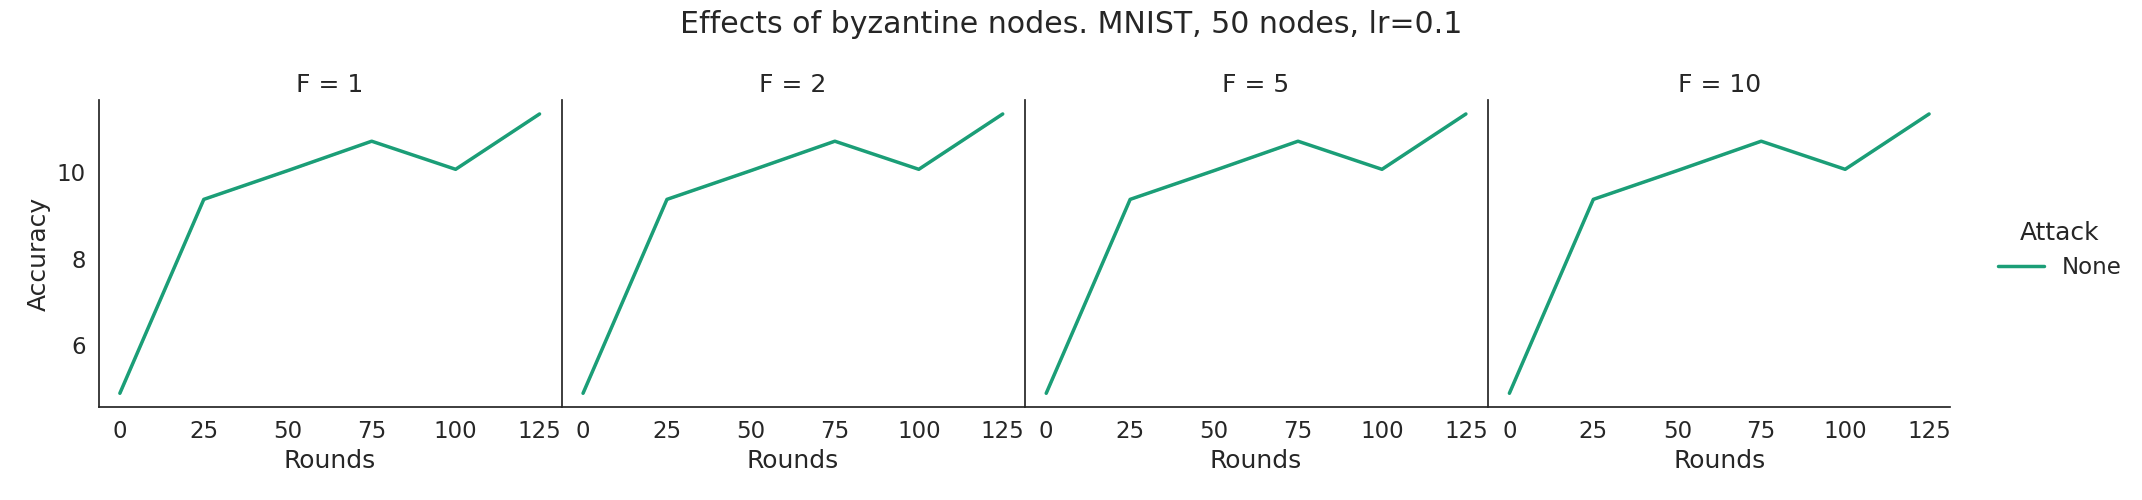
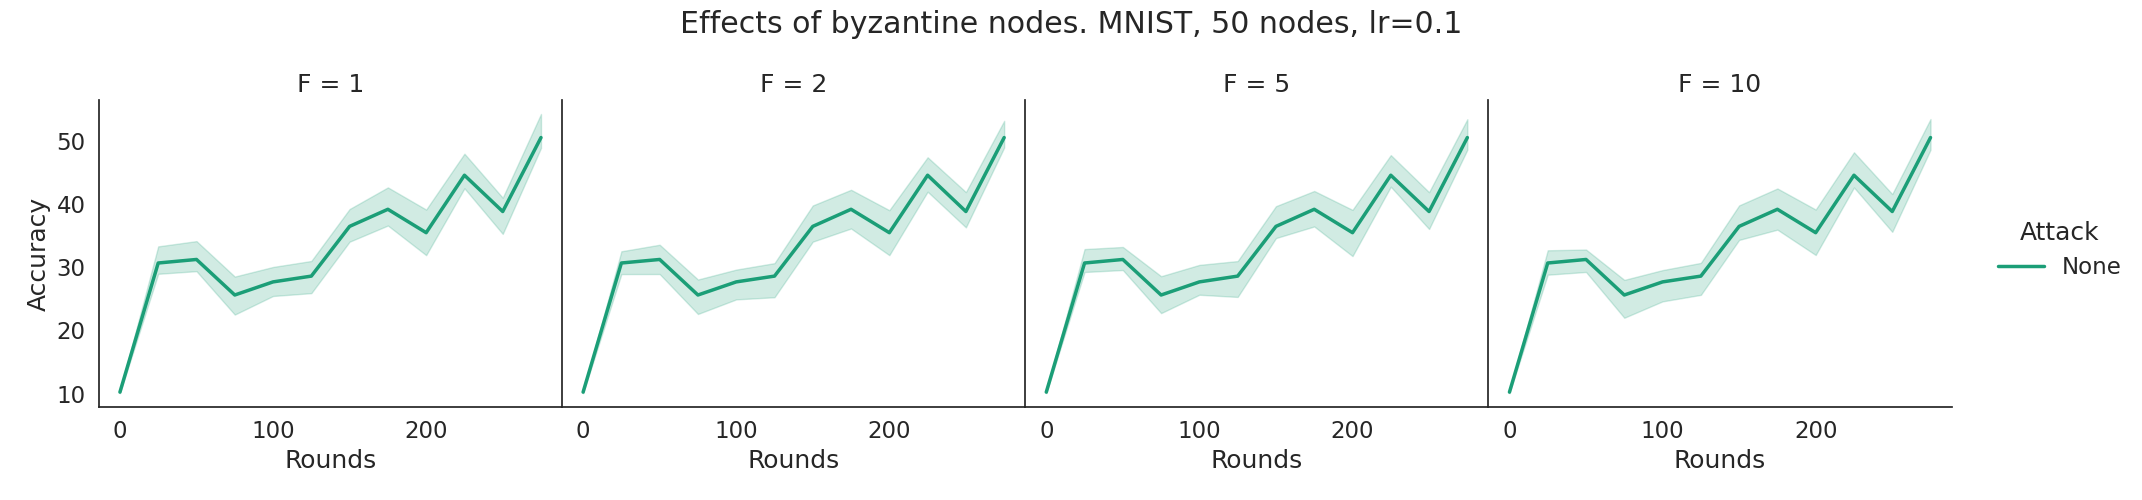
Update not working telerig

diff --git a/asyncfl/telerig.py b/asyncfl/telerig.py
@@ -13,13 +13,13 @@ from asyncfl.util import compute_convergance, compute_lipschitz_simple
 
 class Telerig(Kardam):
 
-    def __init__(self, n, f, dataset: str, model_name: str, learning_rate: float, damp_alpha: float = 0.2) -> None:
+    def __init__(self, n, f, dataset: str, model_name: str, learning_rate: float, damp_alpha: float = 0.2, eps: float = 2.5) -> None:
         super().__init__(n, f, dataset, model_name, learning_rate, damp_alpha)
         self.conv = True
         self.rep = True
-        self.eps = 2.5
+        self.eps = eps
         self.accepted_lips = []
-        self.min_samples = 2
+        self.min_samples = 3
         self.worker_history = {i:{"reputation":math.exp(0)/(1+math.exp(0))} for i in range(n)}
 
     
@@ -29,7 +29,8 @@ class Telerig(Kardam):
         """
         
         # self.lips[_client_id] = client_lipschitz.numpy()
-        model_staleness = (self.get_age() + 1) - gradient_age
+        # model_staleness = (self.get_age() + 1) - gradient_age
+        model_staleness = gradient_age
         grads = torch.from_numpy(gradients)
         self.grad_history[self.age] = grads.clone()
         grads_dampened = grads * dampening_factor(model_staleness, self.damp_alpha)
@@ -42,7 +43,7 @@ class Telerig(Kardam):
 
         # compute global score, condition for when the convergence is infinity. Can occur during optimal slowdown
         if math.isinf(global_conv):
-            global_score = 0
+            global_score = torch.zeros_like(global_conv)
         else:
             global_score = (self.k_pt*global_conv)
         
@@ -52,7 +53,7 @@ class Telerig(Kardam):
 
 
         # @TODO: Do lipschitz reputation check
-        self.update_lip(_client_id, client_lipschitz, self.conv)
+        self.update_lip(_client_id, client_lipschitz, global_conv)
         if self.lipschitz_reputation_check(global_score, self.accepted_lips, _client_id , self.get_age()):
         # if self.lipschitz_check(self.k_pt, self.hack):
             # call the apply gradients from the extended ps after gradient has been checked
@@ -63,13 +64,16 @@ class Telerig(Kardam):
                 alpha = dampening_factor(model_staleness, self.damp_alpha)
                 for g in self.optimizer.param_groups:
                     g['lr'] = alpha
+                # logging.debug(f'Aggregating grads from {_client_id} with lr {alpha}, eps: {self.eps}, damp_alpha:{self.damp_alpha}')
                 self.aggregate(grads)
                 return flatten(self.network)
             else:
+                logging.debug(f'[1] Rejecting grads from {_client_id}')
                 self.bft_telemetry["rejected"][_client_id]["values"].append([self.k_pt,self.get_age()])
                 self.bft_telemetry["rejected"][_client_id]["total"] += 1
                 return flatten(self.network)
         else:
+            logging.debug(f'[2] Rejecting grads from {_client_id}')
             self.bft_telemetry["rejected"][_client_id]["values"].append([self.k_pt,self.get_age()])
             self.bft_telemetry["rejected"][_client_id]["total"] += 1
             return flatten(self.network)
@@ -83,7 +87,10 @@ class Telerig(Kardam):
 
         Return: Boolean: True if gradient is valid, False if not
         """
+        # logging.debug(f'Candidate score from client {worker_id} = {candidate_grad}')
         candidate_grad = candidate_grad.numpy()
+        if np.isnan(candidate_grad):
+            candidate_grad = 0
         self.epoch = epoch
         valid = False
         # temporal dampening
@@ -100,23 +107,24 @@ class Telerig(Kardam):
 
         # create array of the workers local scores and the global score
         if len(worker_grads):
-            logging.debug('Append incoming data')
+            # logging.debug(f'Append incoming data: {candidate_grad} : {worker_grads}')
             incoming_data = np.append(worker_grads,[[candidate_grad,epoch]],axis=0)
         else:
-            logging.debug('Overwrite incoming data')
+            # logging.debug('Overwrite incoming data')
             incoming_data = np.array([[candidate_grad,epoch]])
 
         # logging.debug(f"incoming data {incoming_data} at epoch {epoch}")
 
         # add the previously accepted gradients to incoming data
         if not accepted_grads:
-            logging.debug('overwrite current_data')
+            # logging.debug(f'overwrite current_data: {accepted_grads}')
             current_data = incoming_data
         else:
-            logging.debug('Append current data')
+            # logging.debug('Append current data')
             current_data = np.append(accepted_grads,incoming_data,axis=0)
 
         # making the labels binary, -1 for anomaly, 1 for a cluster
+        # logging.debug(f'Current_data = {current_data}')
         labels = np.array(self.detect_anomalies(current_data,len(worker_grads)))
         labels[labels != -1] = 1
 
@@ -126,18 +134,18 @@ class Telerig(Kardam):
         else:
             # performance check to determine acceptance
             performance = (self.logit(r)) + labels[-1]
-            logging.debug(f'Labels: {labels}')
-            
-            logging.debug(f"Performance check! {r}:{labels[-1]} : {performance} ")
+            # logging.debug(f'Labels: {labels}')
+            # 
+            # logging.debug(f"Performance check! {r}:{labels[-1]} : {performance} ")
 
             if performance >= 0:
                 valid = True
 
             self.update_rep(performance,worker_id)
 
-        for key,item in self.worker_history.items():
-            logging.debug(f"worker {key} reputation {item['reputation']}")
-        logging.debug(f'Valid ? {valid}')
+        # for key,item in self.worker_history.items():
+            # logging.debug(f"worker {key} reputation {item['reputation']}")
+        # logging.debug(f'Valid ? {valid}')
         return valid
     
     def update_rep(self,performance,id):
@@ -147,14 +155,17 @@ class Telerig(Kardam):
         param: id: id of worker
         """
         sig_temp = self.sigmoid(self.temporal)
-        logging.debug(f"updating reputation with performance = {performance} and temporal dampening = {sig_temp}")
+        # logging.debug(f"updating reputation with performance = {performance} and temporal dampening = {sig_temp}")
         r = self.sigmoid(performance * sig_temp)
         self.worker_history[id]["reputation"] = r
 
     def update_lip(self, worker, lip, conv):
         # update the Lipschitz and convergence values for a worker
-        if math.isnan(conv):
-            conv = 0.0
+        # if math.isnan(conv):
+        #     conv = 0.0
+        lip = torch.nan_to_num(lip)
+        conv = torch.nan_to_num(conv)
+        # logging.debug(f'Adding Lip: {lip}, conv: {conv}')
         self.lips.update({worker:{"lips":lip,"conv":conv}})
     
     def sigmoid(self,x):
@@ -181,10 +192,15 @@ class Telerig(Kardam):
         else:
             max_samples = ( 1/3*(active_workers))
 
-        logging.debug(f"min_samples={int(max_samples)}")
-        logging.debug(f"epsilon={self.eps}")
+        # logging.debug(f"min_samples={int(max_samples)}")
+        # logging.debug(f"epsilon={self.eps}")
         # fit data to DBSCAN
-        clusters = DBSCAN(eps=self.eps, min_samples=int(max_samples)).fit(data_ss)
-        logging.debug(f'Clusters: {clusters.labels_}, {data_ss}, {data}')
+        max_samples = max(int(max_samples),1)
+        clusters = DBSCAN(eps=self.eps, min_samples=max_samples).fit(data_ss)
+        if clusters.labels_[-1] < 0:
+            c2 = DBSCAN(eps=max(self.eps-0.5, 0.1), min_samples=max_samples).fit(data_ss)
+            c3 = DBSCAN(eps=self.eps+0.5, min_samples=max_samples).fit(data_ss)
+            logging.debug(f'Anomaly! eps: {max(self.eps-0.5, 0.1)} = {c2.labels_} and {self.eps+.5} = {c3.labels_}')
+        # logging.debug(f'Clusters: {clusters.labels_}, {data_ss}, {data}')
         # return labels
         return clusters.labels_

diff --git a/exp20_mnist_telerig_lr_sweep.py b/exp20_mnist_telerig_lr_sweep.py
@@ -29,25 +29,37 @@ if __name__ == '__main__':
     if not args.o:
         # Define configurations
 
-        pool_size = 1
+        pool_size = 4
 
         configs = []
         model_name = 'mnist-cnn'
         dataset = 'mnist'
-        num_byz_nodes = [0]
+        num_byz_nodes = [1]
         # num_byz_nodes = [0]
-        num_rounds = 150
+        num_rounds = 300
         idx = 1
-        repetitions = 2
+        repetitions = 1
         exp_id = 0
         server_lr = 0.05
         num_clients = 10
         attacks = [
             [AFL.NGClient, {'magnitude': 10,'sampler': 'uniform','sampler_args': {}}],
-            # [AFL.RDCLient, {'a_atk':0.2, 'sampler': 'uniform', 'sampler_args': {}}],
+            [AFL.RDCLient, {'a_atk':0.2, 'sampler': 'uniform', 'sampler_args': {}}],
         ]
+        
         servers = [
-            [AFL.Telerig,{'learning_rate': server_lr, 'damp_alpha': 0.01,}],
+            [AFL.Telerig,{'learning_rate': server_lr, 'damp_alpha': 0.3, 'eps': 0.05}],
+            [AFL.Telerig,{'learning_rate': server_lr, 'damp_alpha': 0.3, 'eps': 0.1}],
+            [AFL.Telerig,{'learning_rate': server_lr, 'damp_alpha': 0.3, 'eps': 0.25}],
+            [AFL.Telerig,{'learning_rate': server_lr, 'damp_alpha': 0.3, 'eps': 0.5}],
+            [AFL.Telerig,{'learning_rate': server_lr, 'damp_alpha': 0.3, 'eps': 1.0}],
+            [AFL.Telerig,{'learning_rate': server_lr, 'damp_alpha': 0.3, 'eps': 1.5}],
+            # [AFL.Telerig,{'learning_rate': server_lr, 'damp_alpha': 0.3, 'eps': 2.0}],
+            # [AFL.Telerig,{'learning_rate': server_lr, 'damp_alpha': 0.3, 'eps': 2.5}],
+            # [AFL.Telerig,{'learning_rate': server_lr, 'damp_alpha': 0.3, 'eps': 3.0}],
+            # [AFL.Telerig,{'learning_rate': server_lr, 'damp_alpha': 0.3, 'eps': 3.5}],
+
+            # [AFL.Telerig,{'learning_rate': server_lr, 'damp_alpha': 0.5,}],
         ]
         f0_keys = []
 
@@ -55,7 +67,7 @@ if __name__ == '__main__':
             # print(_r, f, n, s_lr, model_name)
             server_name = server[0].__name__
             attack_name = atk[0].__name__
-            key_name = f'f{f}_n{num_clients}_lr{server_lr}_{model_name.replace("-", "_")}_da{server[1]["damp_alpha"]}'
+            key_name = f'f{f}_n{num_clients}_lr{server_lr}_{model_name.replace("-", "_")}_da{server[1]["damp_alpha"]}_eps{server[1]["eps"]}'
             # if key_name not in f0_keys:
             #     f0_keys.append(key_name)
             exp_id += 1
@@ -118,6 +130,8 @@ if __name__ == '__main__':
     with open(data_file, 'r') as f:
         outputs2 = json.load(f)
 
+    if not args.o:
+        exit()
     # Process data into dataframe
     dfs = []
     for out in outputs2:
@@ -134,52 +148,52 @@ if __name__ == '__main__':
         local_df['f'] = f
         local_df['byz_type'] = byz_type
         local_df['name'] = '-'.join([f'f{f}', byz_type])
-        if f:
-            dfs.append(local_df)
-        else:
-            for f in [1,2,5,10]:
-                local_df_update = local_df.copy()
-                local_df_update['f'] = f
-                dfs.append(local_df_update)
+        local_df['name'] = parts[-1]
+        dfs.append(local_df)
+        # else:
+        #     for f in [1,2,5,10]:
+        #         local_df_update = local_df.copy()
+        #         local_df_update['f'] = f
+        #         dfs.append(local_df_update)
             # local_df = local_df.copy()
             # local_df['']
     server_df = pd.concat(dfs, ignore_index=True)
-    server_df = server_df[server_df['f'].isin([1,2, 5,10])]
+    # server_df = server_df[server_df['f'].isin([1,2, 5,10])]
 
-    dfs_server_age = []
-    for out in outputs2:
-        name = out[1]['name']
-        local_df = pd.DataFrame(
-            out[0][1], columns=['round', 'client', 'model_age'])
-        local_df['name'] = f"{name.split('-')[-1]}"
-        dfs_server_age.append(local_df)
-    model_age_df = pd.concat(dfs_server_age, ignore_index=True)
+    # dfs_server_age = []
+    # for out in outputs2:
+    #     name = out[1]['name']
+    #     local_df = pd.DataFrame(
+    #         out[0][1], columns=['round', 'client', 'model_age'])
+    #     local_df['name'] = f"{name.split('-')[-1]}"
+    #     dfs_server_age.append(local_df)
+    # model_age_df = pd.concat(dfs_server_age, ignore_index=True)
     sns.set_theme(style="white", palette="Dark2", font_scale=1.5, rc={"lines.linewidth": 2.5}) # type: ignore
     graph_file = graphs_path / f'{exp_name}.png'
     print(f'Generating plot: {graph_file}')
     # Visualize data
     fig = plt.figure(figsize=(8, 6))
-    g = sns.lineplot(data=server_df, x='round', y='accuracy', hue='name',errorbar=('ci', 25))
-    plt.title('Effect of Byzantine Nodes')
+    g = sns.lineplot(data=server_df, x='round', y='accuracy', hue='name',errorbar=('ci', 95))
+    plt.title('Telerig')
     plt.xlabel('Rounds')
     plt.ylabel('Test accuracy')
     g.legend_.set_title(None)
     plt.savefig(graph_file)
     plt.close(fig)
 
-    graph_file = graphs_path / f'{exp_name}_splitted.png'
-    print(f'Generating plot: {graph_file}')
-    # Visualize data
-    fig = plt.figure(figsize=(8, 6))
-    g = sns.relplot(data=server_df, x='round', y='accuracy', hue='byz_type', col='f', kind='line', errorbar=('ci', 25))
-    g.set_axis_labels("Rounds", "Accuracy").set_titles("F = {col_name}").tight_layout(w_pad=0)
-    g.legend.set_title('Attack')
-    g.fig.subplots_adjust(top=0.8) # adjust the Figure in g
-    g.fig.suptitle(f'Effects of byzantine nodes. MNIST, 50 nodes, lr=0.1')
-    plt.xlabel('Rounds')
-    plt.ylabel('Test accuracy')
-    plt.savefig(graph_file)
-    plt.close(fig)
+    # graph_file = graphs_path / f'{exp_name}_splitted.png'
+    # print(f'Generating plot: {graph_file}')
+    # # Visualize data
+    # fig = plt.figure(figsize=(8, 6))
+    # g = sns.relplot(data=server_df, x='round', y='accuracy', hue='byz_type', col='f', kind='line', errorbar=('ci', 25))
+    # g.set_axis_labels("Rounds", "Accuracy").set_titles("F = {col_name}").tight_layout(w_pad=0)
+    # g.legend.set_title('Attack')
+    # g.fig.subplots_adjust(top=0.8) # adjust the Figure in g
+    # g.fig.suptitle(f'Effects of byzantine nodes. MNIST, 50 nodes, lr=0.1')
+    # plt.xlabel('Rounds')
+    # plt.ylabel('Test accuracy')
+    # plt.savefig(graph_file)
+    # plt.close(fig)
 
     # graph_file = graphs_path / f'{exp_name}_model_age.png'
     # print(f'Generating plot: {graph_file}')
